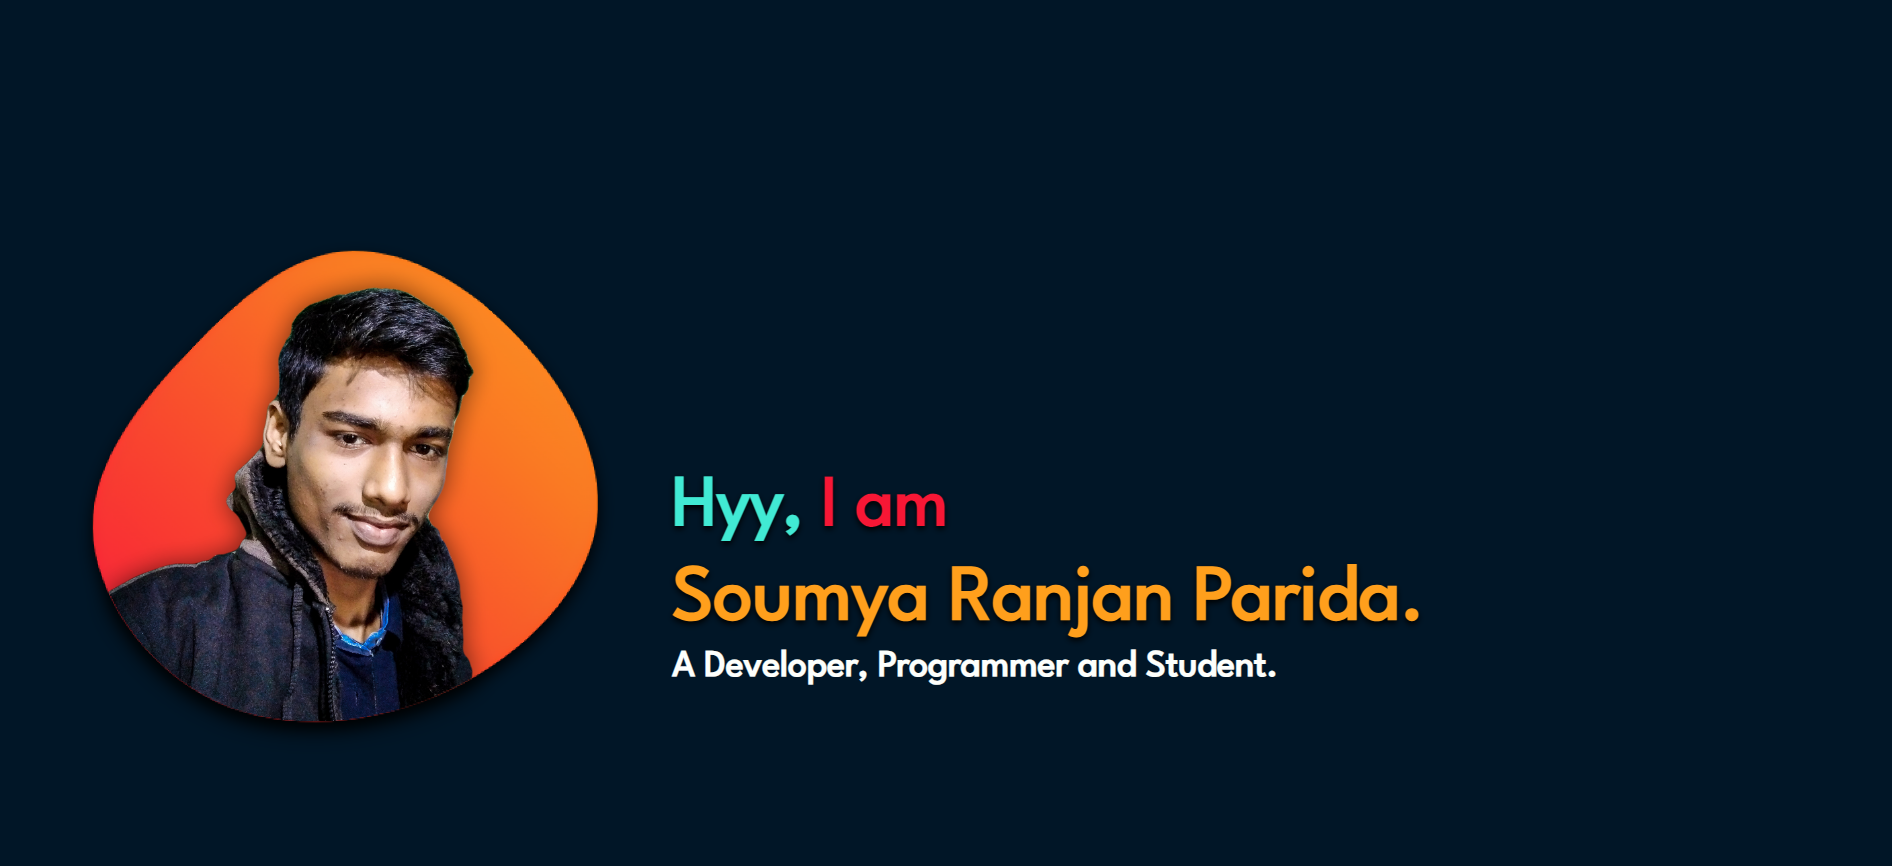
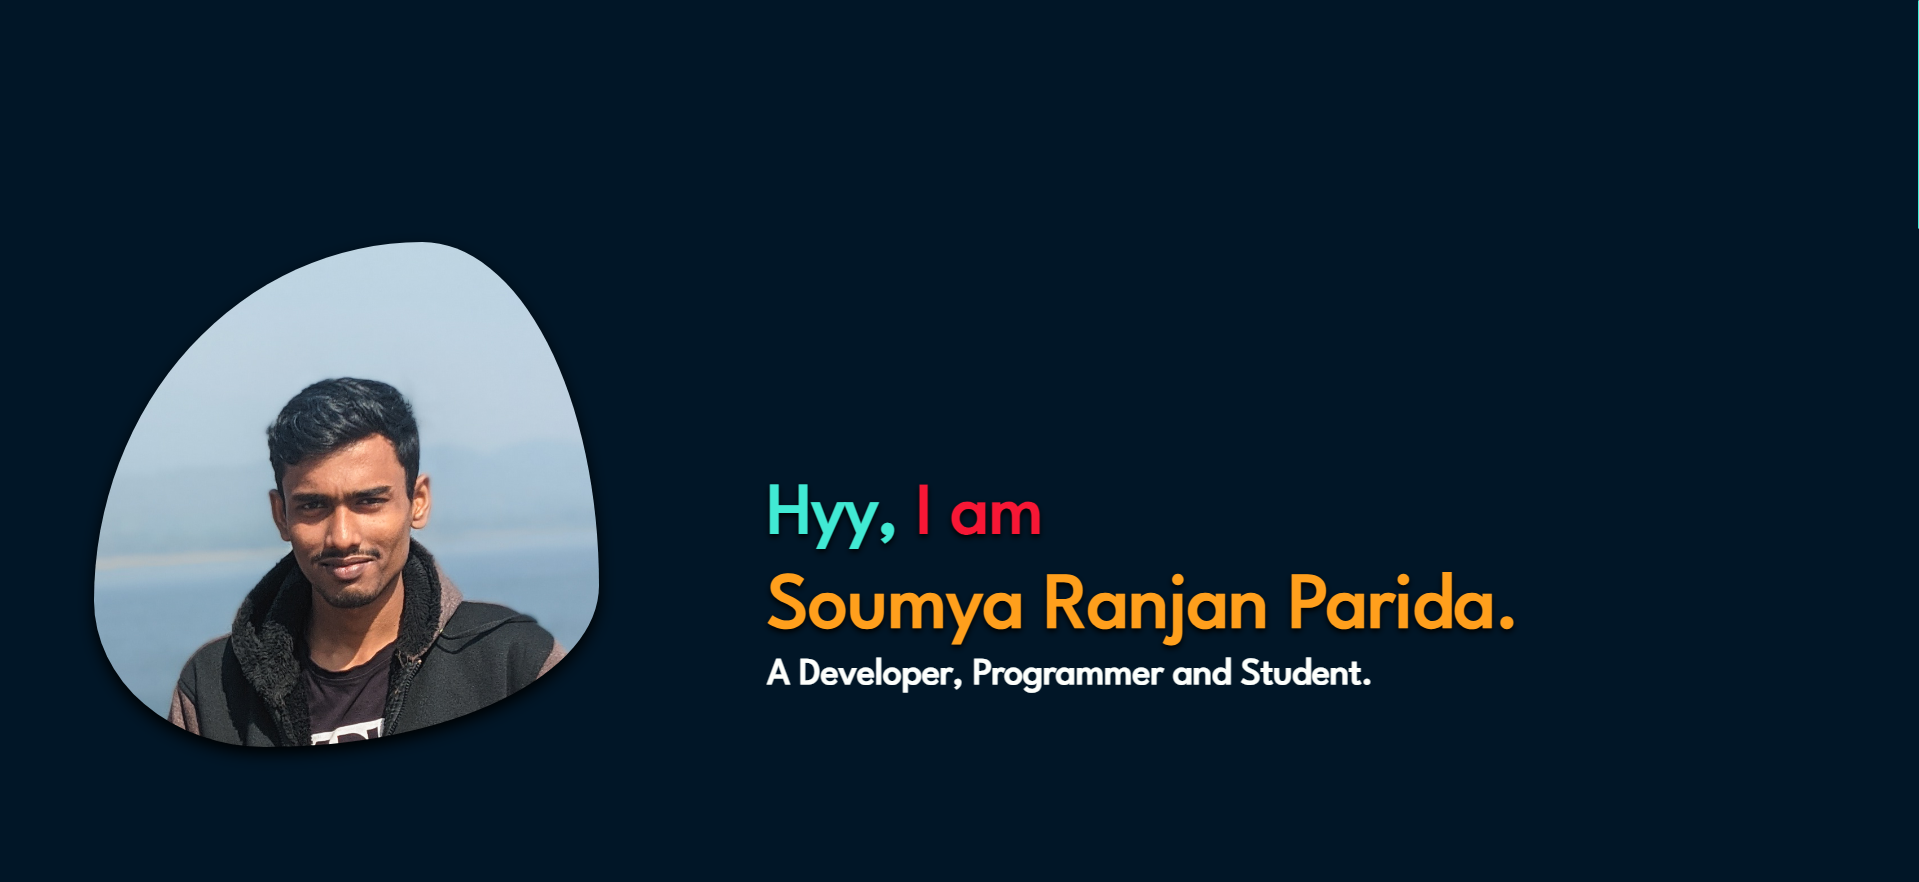
Added New Photo and More responsivness

Changed region(s): [[0.0312, 0.2494, 0.5613, 0.873], [0.343, 0.6547, 0.8108, 0.8106], [0.9979, 0.0, 1.0, 0.2494]]

diff --git a/style.css b/style.css
@@ -150,16 +150,20 @@ https://coolors.co/011627-f71735-41ead4-fdfffc-ff9f1c
 }
 
 #myphoto-container {
-    width: 35vw;
+    width: 40vw;
+    padding-left: 60px;
+    padding-top: 40px;
 }
 
 #myphoto {
-    width: 100%;
+    width: 75%;
+    border-radius: 65% 35% 66% 34% / 71% 68% 32% 29%;
     animation: breathAnimation 2s linear forwards;
     filter: drop-shadow(0 5px 5px #000);
 }
 
 #text-container {
+    width: 60vw;
     display: flex;
     justify-content: end;
     align-items: left;
@@ -396,7 +400,7 @@ footer {
     }
 }
 
-@media (max-width: 700px) {
+@media (max-width: 788px) {
     #nav {
         display: flex;
         flex-direction: column;
@@ -447,15 +451,19 @@ footer {
     #welcome-container {
         flex-direction: column;
         justify-content: center;
+        padding-left: 10px;
+        padding-top: 0;
     }
 
     #myphoto-container {
         width: 100%;
+        padding-left: 125px;
     }
 
     #text-container {
+        width: 100%;
         margin-top: 20px;
-        padding: 0 30px;
+        padding: 0 85px;
         width: 100%;
     }
 
@@ -505,17 +513,22 @@ footer {
     }
 
     #myphoto-container {
-        width: 100%;
+    padding-left: 52px;
+    padding-top: 00px;
+    }
+
+    #myphoto{
+        width: 80%;
     }
 
     #text-container {
         margin-top: 20px;
-        padding: 0 30px;
+        padding-left: 70px;
         width: 100%;
     }
 
     #text-container h1 {
-        display: inline;
+        white-space: break-spaces;
     }
 
     .sec-header {

diff --git a/index.html b/index.html
@@ -7,9 +7,7 @@
     <link rel="icon" type="image/x-icon" href="./images/s1.png">
     <link href='https://fonts.googleapis.com/css?family=League Spartan' rel='stylesheet'>
     <link rel="stylesheet" href="style.css">
-    <link rel="stylesheet" href="https://cdnjs.cloudflare.com/ajax/libs/font-awesome/6.5.1/css/all.min.css"
-        integrity="sha512-DTOQO9RWCH3ppGqcWaEA1BIZOC6xxalwEsw9c2QQeAIftl+Vegovlnee1c9QX4TctnWMn13TZye+giMm8e2LwA=="
-        crossorigin="anonymous" referrerpolicy="no-referrer" />
+    <link rel="stylesheet" href="https://cdnjs.cloudflare.com/ajax/libs/font-awesome/6.5.1/css/all.min.css" integrity="sha512-DTOQO9RWCH3ppGqcWaEA1BIZOC6xxalwEsw9c2QQeAIftl+Vegovlnee1c9QX4TctnWMn13TZye+giMm8e2LwA==" crossorigin="anonymous" referrerpolicy="no-referrer"/>
     <title>SOUMYA | PORTFOLIO</title>
 </head>
 
@@ -35,7 +33,7 @@
     <section id="welcome">
         <div id="welcome-container">
             <div id="myphoto-container">
-                <img src="images/myphoto.png" alt="My Photo" id="myphoto">
+                <img src="images/soumya-p.jpg" alt="My Photo" id="myphoto">
             </div>
             <div id="text-container">
                 <h2 class="typewriter-text small" style="color: var(--col1);"><span style="color: var(--col2);">Hyy,
